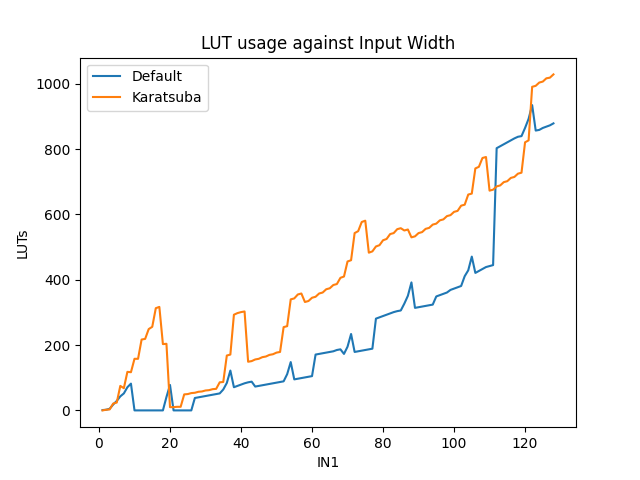
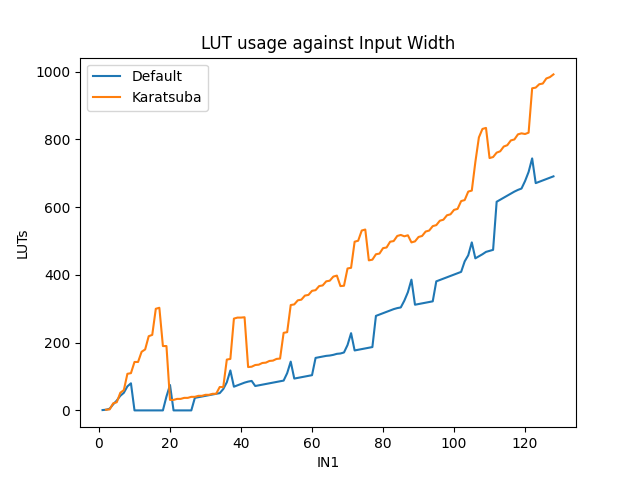
new graphs for new part

diff --git a/python/display_data.py b/python/display_data.py
@@ -6,11 +6,11 @@ import pandas as pd
 def main():
 
     normal = pd.read_csv('data/1-128normal.csv')
-    #karatsuba = pd.read_csv('data/1-128karatsuba.csv')
+    karatsuba = pd.read_csv('data/1-128karatsuba.csv')
     LUT_Graph = normal.plot(x = 'IN1', y = 'LUTs', label = 'Default', title = 'LUT usage against Input Width')
-    #karatsuba.plot(ax = LUT_Graph, x = 'IN1', y = 'LUTs', ylabel = 'LUTs', label = 'Karatsuba')
+    karatsuba.plot(ax = LUT_Graph, x = 'IN1', y = 'LUTs', ylabel = 'LUTs', label = 'Karatsuba')
     DSP_Graph = normal.plot(x = 'IN1', y = 'DSPs', label = 'Default', title = 'DSP usage against Input Width')
-    #karatsuba.plot(ax = DSP_Graph, x = 'IN1', y = 'DSPs', ylabel = 'DSPs', label = 'Karatsuba')
+    karatsuba.plot(ax = DSP_Graph, x = 'IN1', y = 'DSPs', ylabel = 'DSPs', label = 'Karatsuba')
 
     plt.show()
 
